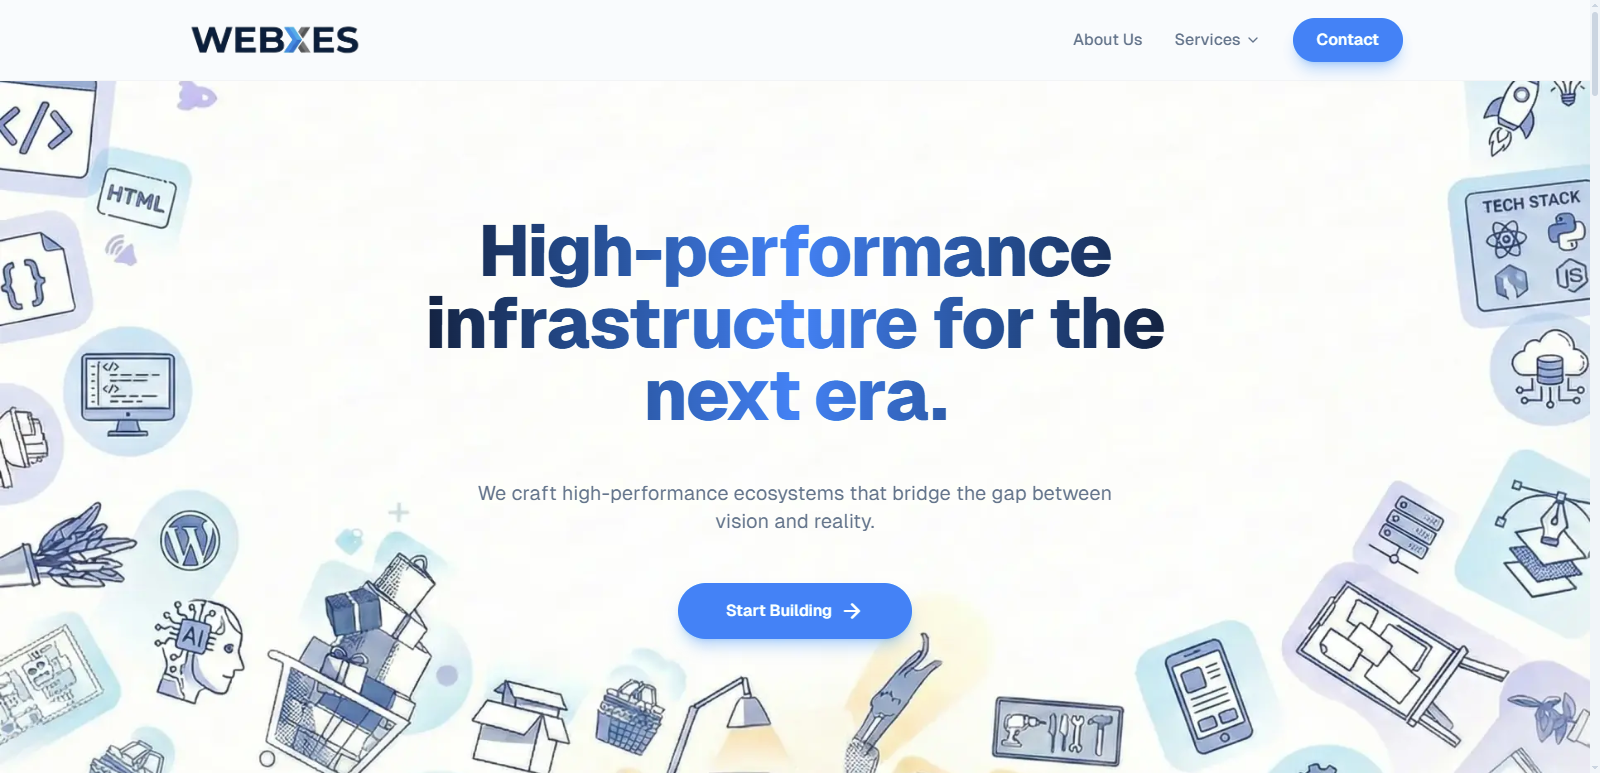
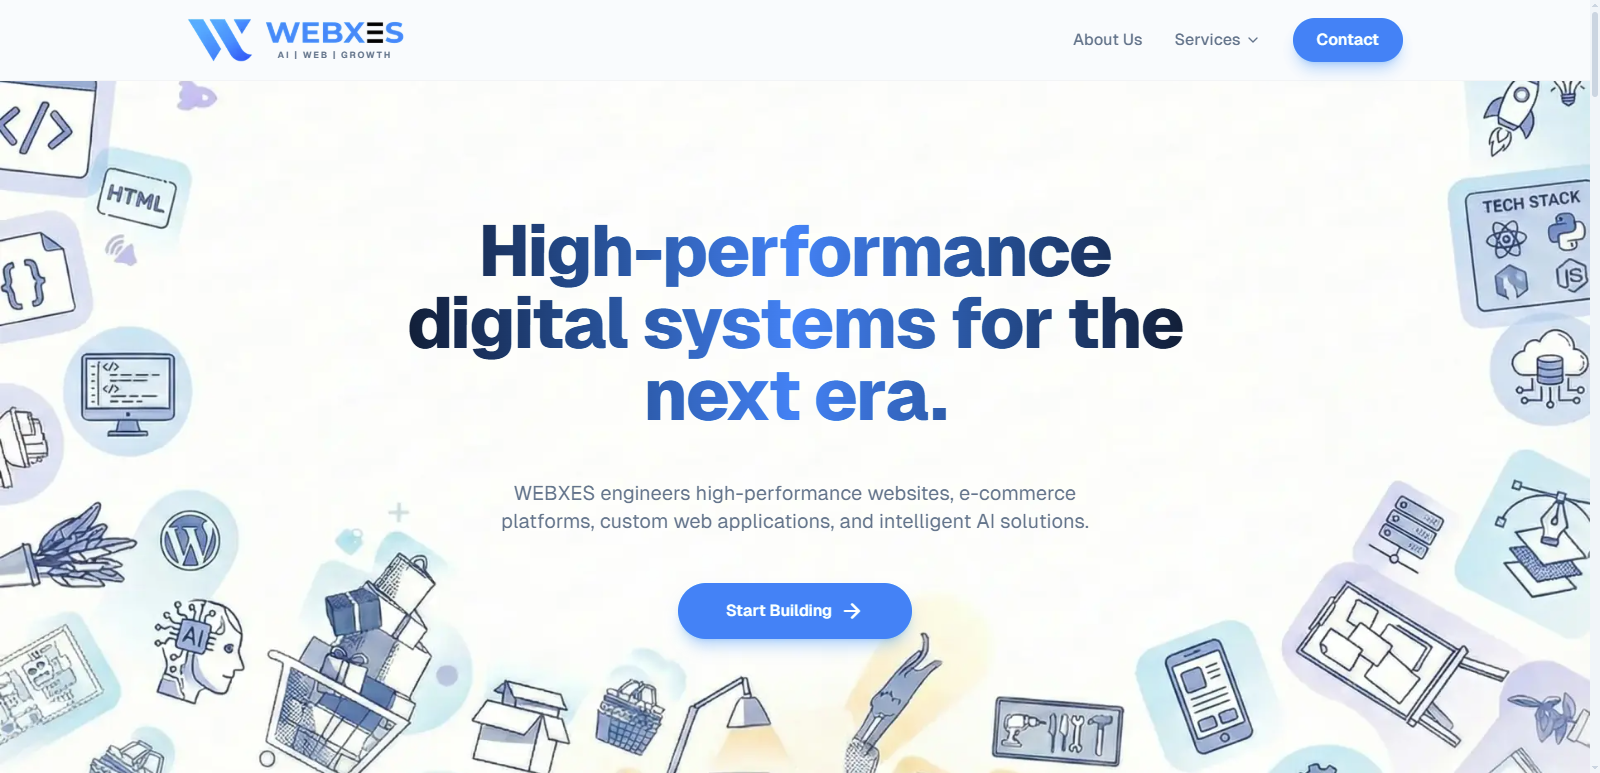
feat: update project details and replace Boardroom AI with Mashwara AI

Changed region(s): [[0.25, 0.3726, 0.75, 0.4657], [0.2812, 0.621, 0.6875, 0.6831], [0.0938, 0.0, 0.25, 0.0931]]

diff --git a/app/projects/page.tsx b/app/projects/page.tsx
@@ -26,11 +26,11 @@ const projects = [
     featured: true,
   },
   {
-    title: "Boardroom AI - Executive Decision Engine",
+    title: "Mashwara AI - Multilingual Executive Decision Engine",
     description:
-      "A multi-agent decision engine that simulates a virtual board meeting. Uses 6 specialized AI agents running in parallel to analyze, debate, and produce structured executive reports.",
-    image: "/images/boardroom_ai.png",
-    link: "https://boardroom-ai-duologic.vercel.app/",
+      "A multilingual agentic decision-support platform for Pakistan that simulates a virtual board meeting. Uses 6 specialized AI agents running in parallel to analyze, debate, and produce structured, evidence-backed consultations.",
+    image: "/images/mashwara_ai.png",
+    link: "https://mashwara-ai.vercel.app/",
     category: "web-app",
     tags: ["Google ADK", "Agentic AI", "FastAPI", "React"],
     featured: true,
